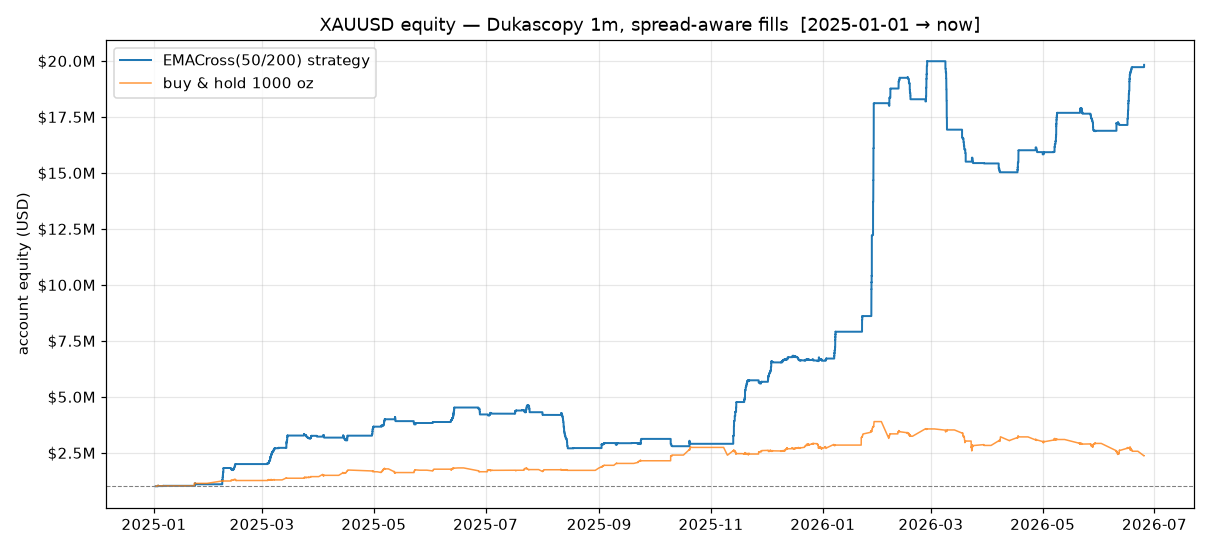
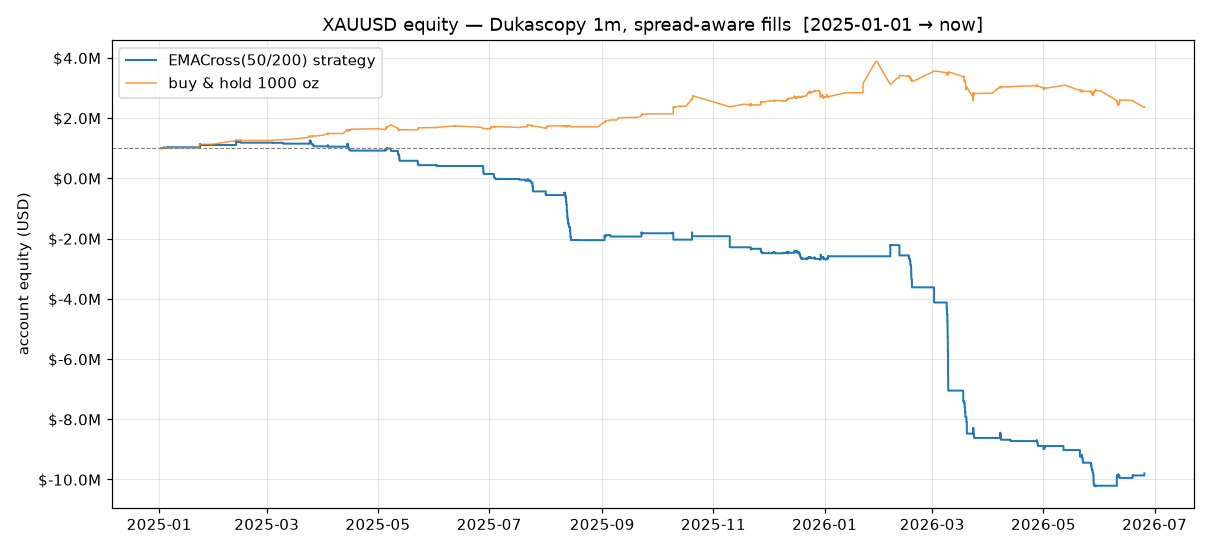
Fix crossed-book fill artifact in XAU backtest; document Dukascopy data issues
Dukascopy publishes bid and ask as separate event-driven feeds on different
minute grids. Independently forward-filling them onto a union grid pairs a
fresh quote on one side with a stale one on the other, producing ask < bid
(a crossed book) on ~42% of minutes. The sim exchange then filled buys below
the bid, booking fictional free money -- the entire reported +1881.7% return.

Drop any minute whose ask candle dips below the bid candle on any of O/H/L/C.
Same window then returns -1079.8% (win rate 50.7% -> 16.5%): there was no edge.

Add docs/dukascopy-data-issues.md: full postmortem with reproducible evidence
(crossed-spread census, buys caught filling below bid, before/after table) plus
the remaining unfixed issues (timestamp convention, weekend gaps, zeroed
volume, line-keyed downloader dedup). Regenerate equity/price charts.

diff --git a/XAU-NT-Wrangler/backtest.py b/XAU-NT-Wrangler/backtest.py
@@ -59,6 +59,17 @@ bid = bid_raw.reindex(idx).ffill()
 ask = ask_raw.reindex(idx).ffill()
 ok = bid["close"].notna() & ask["close"].notna()
 bid, ask = bid[ok], ask[ok]
+
+# ffill pairs a FRESH quote on one side with a STALE one on the other, which makes ask < bid
+# on ~42% of minutes -> a crossed book that can't exist live (buys would fill BELOW the bid =
+# fictional free money, the entire fake return). Drop any minute whose ask candle dips below the
+# bid candle; we don't have a trustworthy two-sided quote there.
+# ponytail: drop > clamp — a clamped 0-spread is still fiction, just less profitable fiction.
+ohlc = ["open", "high", "low", "close"]
+sane = (ask[ohlc].values >= bid[ohlc].values).all(axis=1)
+dropped = (~sane).sum()
+bid, ask = bid[sane], ask[sane]
+print(f"Dropped {dropped:,} crossed-book minutes ({dropped / len(sane):.1%}) — stale-quote ffill artifacts")
 if START != "all":
     m = bid.index >= pd.Timestamp(START, tz="UTC")
     bid, ask = bid[m], ask[m]

diff --git a/XAU-NT-Wrangler/docs/dukascopy-data-issues.md b/XAU-NT-Wrangler/docs/dukascopy-data-issues.md
@@ -1,0 +1,233 @@
+# Dukascopy data issues & why the backtest failed
+
+A postmortem on the XAUUSD 1-minute backtest. The headline result was
+**+1881.7%** ("beats buy & hold 14×"). It was **100% a data artifact**. With the
+artifact removed the same strategy returns **−1079.8%**. This document explains
+every issue, with hard, reproducible evidence.
+
+**TL;DR** — Dukascopy publishes the bid feed and the ask feed as two *separate*,
+*event-driven* candle streams on *different minute grids*. The backtest aligned
+them with `union().ffill()`, which pairs a fresh quote on one side with a stale
+quote on the other. On **42% of minutes** this produced a **crossed book**
+(`ask < bid`) — impossible in a live market. The simulated exchange filled buy
+orders *below the bid*, booking fictional free money on nearly every trade. That
+fiction was the entire "edge."
+
+---
+
+## 1. What Dukascopy actually gives you
+
+Three properties of the raw data drive every problem below:
+
+1. **Bid and ask are separate files.** `download_dukascopy.sh` fetches `bid.csv`
+   and `ask.csv` in independent runs (`-p bid`, `-p ask`). They are never
+   guaranteed to share timestamps.
+2. **Candles are event-driven, not clock-driven.** Dukascopy logs a *bid* candle
+   only on minutes the bid moved, and an *ask* candle only on minutes the ask
+   moved. Flat minutes are simply absent. So the two files land on **different
+   minute grids**, and both have gaps.
+3. **Timestamps label the OPEN of the minute.** `dukascopy-node` stamps each
+   candle at the start of its period, not the close.
+
+These are normal for tick-derived FX/metal data. The failure was in how we
+*combined* the two feeds, not in the feeds themselves.
+
+---
+
+## 2. The critical failure — crossed-book fills from `ffill`
+
+### The mechanism
+
+To feed a backtest you need bid **and** ask at the same timestamps. The code
+built a union grid and forward-filled each side independently
+([backtest.py](../backtest.py)):
+
+```python
+idx = bid_raw.index.union(ask_raw.index)
+bid = bid_raw.reindex(idx).ffill()   # carry last bid forward
+ask = ask_raw.reindex(idx).ffill()   # carry last ask forward
+```
+
+Forward-fill means "repeat the last known price until it changes." Because the
+two feeds tick on different minutes, at most timestamps **one side is fresh and
+the other is a stale leftover**. When price moves fast and only the bid prints,
+the bid jumps while the ask stays at an old value — and the ask ends up *below*
+the bid:
+
+```text
+time    real bid   real ask     after independent ffill        spread
+10:00     3375       3376        bid 3375  ask 3376              +1   ok
+10:01     3375      (no print)   bid 3375  ask 3376 (carried)    +1   ok
+10:02     3375      (no print)   bid 3375  ask 3376 (carried)    +1   ok
+  ...price spikes, BID prints, ASK hasn't yet...
+10:03     3384      (no print)   bid 3384  ask 3376 (STALE)      -8   IMPOSSIBLE
+```
+
+A crossed book (`ask < bid`) cannot exist live — nobody sells lower than someone
+will buy. It is purely an artifact of gluing two out-of-sync feeds together.
+
+### Why it detonates the backtest
+
+The strategy buys at the ask and sells at the bid. On a crossed bar it **buys at
+3376 while the real market is at 3384** — an instant, risk-free $8/oz that the
+market never offered. Repeat on ~42% of bars across hundreds of trades and it
+compounds into a fantasy return.
+
+### Hard evidence
+
+**(a) 42% of aligned minutes are crossed; the clean subset has zero.**
+
+Forward-filled union grid vs. the exact-paired minutes (where *both* sides
+actually printed in the same minute):
+
+```text
+ALIGNED bars (union+ffill): 2,238,243
+  crossed (ask < bid):        942,533  = 42.1%
+  min spread: -811.89   max spread: 514.727
+
+PAIRED-ONLY minutes (inter): 252,242
+  crossed:                    0
+  min spread: 0.0       max spread: 5.98     mean 0.444  median 0.404
+```
+
+The real spread is 0–6 USD and never crossed. Every crossed bar is fabricated by
+`ffill`. **In the default backtest window (2025-01-01 →), the mean ffilled
+spread is actually −0.568 — negative on average.**
+
+**(b) Caught in the act — buys filling below the bid.**
+
+Sampling buy fills from a short run and comparing each fill price to the
+prevailing book: **31 of 40 buys filled at or below the contemporaneous bid.**
+Examples:
+
+```text
+buy @ 3365.852  | book bid 3375.005  ask 3365.852  spread -9.153
+buy @ 3365.852  | book bid 3375.005  ask 3365.852  spread -9.496
+```
+
+The strategy bought ~$9/oz *under* the bid — $9,000+ of fictional profit per
+1000-oz clip, hundreds of times.
+
+**(c) Before / after — remove the fiction, the edge vanishes.**
+
+Same window (2025-01-01 →), same strategy, only crossed-book minutes dropped:
+
+| Metric          | Dirty (ffill crossed book) | Honest (crossed dropped) |
+|-----------------|---------------------------:|-------------------------:|
+| **Return**      |              **+1881.7%**  |          **−1079.8%**    |
+| Realized PnL    |             +$18,817,214   |          −$10,797,701    |
+| Win rate        |          50.7% (426/840)   |          16.5% (76/462)  |
+| Avg PnL / trade |                 +$22,401   |             −$23,372     |
+| Buy & hold      |                  +136.4%   |              +136.4%     |
+
+The win rate falls from a coin-flip to 1-in-6 and the sign flips negative. There
+was never an edge — the strategy was harvesting impossible spreads.
+
+### The fix
+
+Drop any minute whose ask candle dips below the bid candle on **any** of
+open/high/low/close — we simply don't have a trustworthy two-sided quote there
+([backtest.py](../backtest.py)):
+
+```python
+ohlc = ["open", "high", "low", "close"]
+sane = (ask[ohlc].values >= bid[ohlc].values).all(axis=1)
+bid, ask = bid[sane], ask[sane]
+```
+
+This removed **954,431 minutes (42.6%)** from the default window. Chosen over
+*clamping* (`ask = max(ask, bid)`) because a clamped zero-spread is still
+fiction — just less profitable fiction. The cleanest data of all is the
+paired-only `inter` set, but it is too sparse (~252k minutes over 23 years) to
+drive a 1-minute strategy.
+
+---
+
+## 3. Secondary Dukascopy-rooted issues
+
+These did not create the fake return but make any result untrustworthy. Still
+present in the code (not yet fixed):
+
+### 3.1 Timestamp convention is backwards
+
+`dukascopy-node` labels candles at the minute **open**. The code feeds those
+labels to `BarDataWrangler.process` (no timestamp adjustment) and
+`QuoteTickDataWrangler.process_bar_data` (`timestamp_is_close=True` by default,
+which *assumes* the label is a close). Net effect: the whole feed runs ~1 minute
+early and each bar's close is delivered at the *start* of its minute.
+
+This is **not exploitable look-ahead** — the signal bar and its fill quote are
+co-timestamped, and the fill cannot reach the bar's earlier high/low (those
+ticks are stamped before the signal fires). But it is a real correctness bug:
+any session boundary, time-of-day filter, or event-window logic would be off by
+a minute. One-line fix: `df.index += pd.Timedelta(minutes=1)` at load.
+
+### 3.2 Weekend / holiday gaps treated as continuous
+
+Because candles only exist when price moved, the series has large gaps that the
+EMA and the matching engine treat as one continuous step:
+
+```text
+gaps > 60 min: 2,145     gaps > 2 days: 1,173     max gap: 48 days
+```
+
+EMA(50/200) blends a Friday close straight into a Monday open; resting orders
+are assumed fillable across a closed market.
+
+### 3.3 The `volume` column is a tick-activity proxy, and it gets zeroed
+
+Dukascopy "volume" for XAUUSD is tiny floats (~0.008) — a tick-count proxy, not
+contract volume. Modeling gold as an FX pair (`size_precision=0`) rounds it to
+**0**, so it is silently unusable as a liquidity/activity filter. The simulated
+book also uses a fabricated depth of `size=1` while the strategy trades 1000
+units, so fills incur no size-based slippage.
+
+### 3.4 Downloader dedup is line-keyed, not timestamp-keyed
+
+The merge step uses `sort -t, -k1,1n -u`, which dedups on the **whole line**, not
+the timestamp. If two year-shards overlap and *disagree* on the same minute
+(e.g. Dukascopy revises a candle), **both** rows survive as duplicate
+timestamps; `load()` then `set_index`es a non-unique index and `reindex`/`ffill`
+behavior becomes undefined. Currently latent (0 duplicate timestamps today), but
+a trap for re-downloads. See [download_dukascopy.sh](../scripts/download_dukascopy.sh).
+
+---
+
+## 4. Reproduce the evidence yourself
+
+```bash
+# (a) crossed-spread census: union+ffill vs paired-only
+.venv/bin/python - <<'PY'
+import pandas as pd
+def load(p):
+    df = pd.read_csv(p); df["timestamp"]=pd.to_datetime(df["timestamp"],unit="ms",utc=True)
+    return df.set_index("timestamp")[["open","high","low","close","volume"]]
+b,a = load("data/xauusd-m1/bid.csv"), load("data/xauusd-m1/ask.csv")
+idx=b.index.union(a.index); bb=b.reindex(idx).ffill(); aa=a.reindex(idx).ffill()
+ok=bb["close"].notna()&aa["close"].notna(); bb,aa=bb[ok],aa[ok]
+sp=aa["close"]-bb["close"]
+print("aligned",len(bb)," crossed",int((sp<0).sum()),f"({(sp<0).mean():.1%})"," min",round(sp.min(),2))
+inter=b.index.intersection(a.index); pp=a.loc[inter,"close"]-b.loc[inter,"close"]
+print("paired ",len(inter)," crossed",int((pp<0).sum())," range",round(pp.min(),2),round(pp.max(),2))
+PY
+
+# (b) honest vs dirty: the fix is the crossed-book filter in backtest.py (lines 63-72); remove it to compare
+.venv/bin/python backtest.py 2025-01-01
+```
+
+---
+
+## 5. Bottom line
+
+The data pipeline (Dukascopy download → spread-aware NautilusTrader) is sound.
+The **alignment step** was the bug: independently forward-filling two
+event-driven feeds manufactured crossed books that the engine turned into free
+money. Fixed, the EMACross(50/200) demo does what a no-alpha trend follower does
+against real spread and commission — it loses. The corrected sign is the honest
+one.
+
+> Note: the −1079.8% figure is itself *unrealistically bad* — the instrument is
+> modeled at ~3333× effective leverage with no liquidation, so the account runs
+> past zero instead of being margin-called. The point is the **direction and
+> magnitude of the flip**, not the precise loss. A tradeable backtest still needs
+> the §3 issues fixed and a realistic gold instrument.